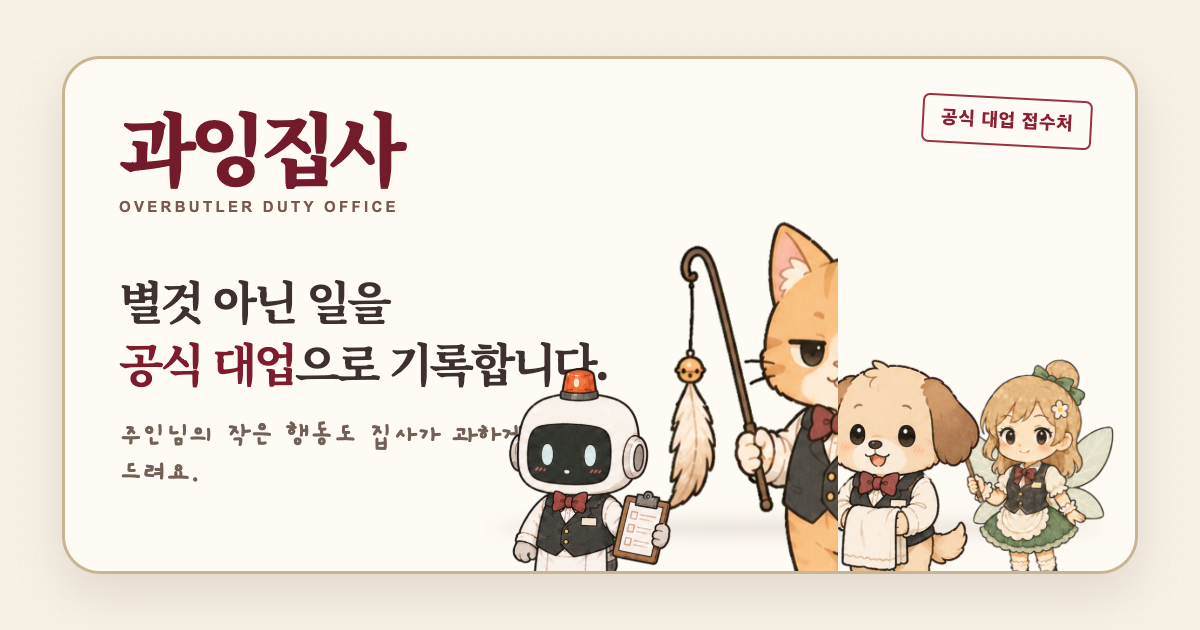
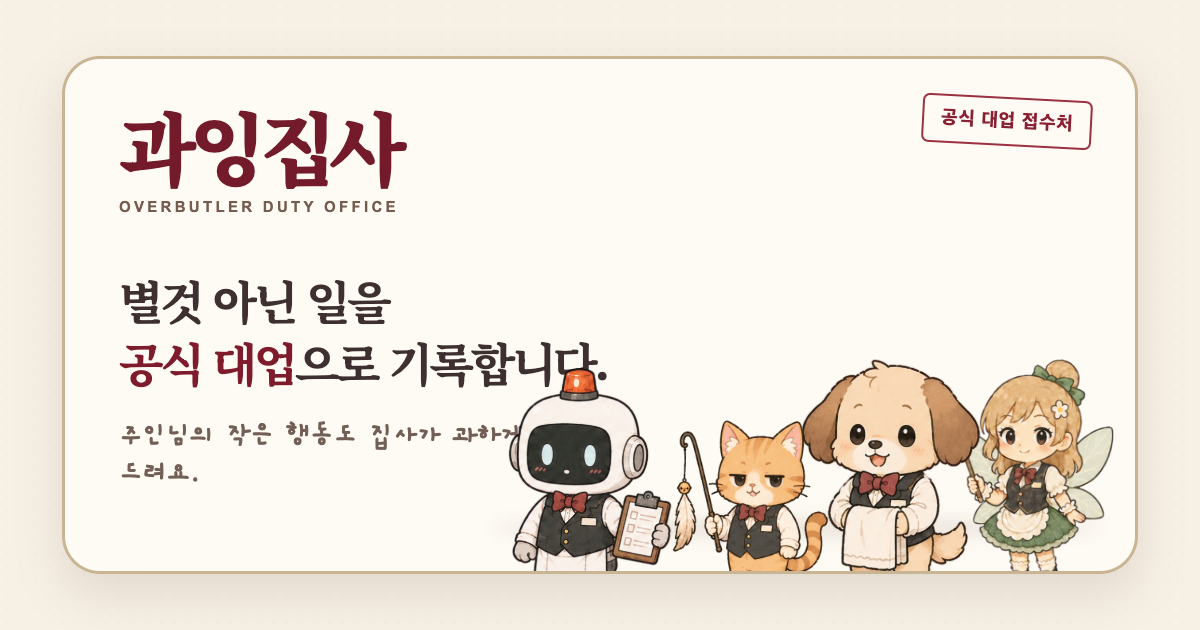
fix: clean cat poses and prepare runtime packaging

Changed region(s): [[0.555, 0.3317, 0.7092, 0.9048]]

diff --git a/index.html b/index.html
@@ -341,7 +341,7 @@
         <button class="recruit-note" id="recruit-note" type="button"><strong id="recruit-title">✉ 신규 지원 조건 확인</strong><span id="recruit-description">주인님의 명성이 업계에 퍼지고 있습니다.</span></button>
         <button class="manager-change-button" id="manager-change-button" type="button">담당 변경 및 인수인계 <span>›</span></button>
         <footer class="app-information" aria-label="앱 정보">
-          <div><strong>과잉집사</strong><span>버전 <b id="app-version">2.16.0</b> · 기기 안에 기록 저장</span></div>
+          <div><strong>과잉집사</strong><span>버전 <b id="app-version">2.17.0</b> · 기기 안에 기록 저장</span></div>
           <nav aria-label="정책 문서"><a href="privacy.html" target="_blank" rel="noopener" data-analytics-event="privacy_open">개인정보 처리방침</a><a href="terms.html" target="_blank" rel="noopener" data-analytics-event="terms_open">이용약관</a></nav>
         </footer>
       </section>

diff --git a/docs/RELEASE.md b/docs/RELEASE.md
@@ -22,3 +22,37 @@
 - Complete current Apps in Toss, Apple App Store, and Google Play policy checklists.
 - Run `quality-handoff`, then `release-check` on the exact submission build.
 
+## Platform packaging status
+
+### Public web
+
+- The release-candidate web flow, install manifest, icons, legal pages, and mobile safe areas are present.
+- Keep `butlermaker_v1` as the compatibility contract. Do not reset it during packaging.
+- The final domain, operator name, and support contact are still submission-time inputs.
+
+### Apps in Toss
+
+- Use the official `@apps-in-toss/web-framework` adapter and generate `granite.config.ts` plus a `.ait` bundle.
+- `appName`, display name, and icon must exactly match the Apps in Toss console entry. Do not invent these values in source before the console app is fixed.
+- Keep the main web viewport accessible. Apply the Apps in Toss pinch-zoom setting only in the platform-specific shell.
+- Test the exact bundle in Toss Sandbox, including native back events and all overlays.
+- QR-test `localStorage` and production `localStorage` use different origins and do not share data. Production updates on the same origin do preserve data.
+- The extracted bundle must stay below the official 100 MB uncompressed limit. Never package the repository root: it contains source sheets, mockups, and reference assets not used at runtime.
+- Run `node scripts/build-runtime-bundle.mjs` to create the shared runtime-only source under `dist/runtime/`; use that directory as the input for platform adapters.
+
+### App Store and Google Play
+
+- A website URL or thin remote WebView is not the submission artifact. Build a locally bundled native container after the web release-candidate is approved.
+- Use the same local web application and data contract, then add only platform-required native lifecycle, file sharing, haptics, and navigation handling.
+- Apple review requires an experience beyond a repackaged website; verify app-like value and on-device completeness before submission.
+- Google Play requires stable, meaningful functionality, policy declarations, a live privacy URL, content rating, and the current target API level.
+- As of 2026-08-31, new Google Play submissions must target Android 16 / API level 36 or higher.
+
+## Current official references
+
+- Apps in Toss existing-web integration: <https://developers-apps-in-toss.toss.im/tutorials/webview.html>
+- Apps in Toss storage behavior: <https://developers-apps-in-toss.toss.im/bedrock/reference/framework/%EC%A0%80%EC%9E%A5%EC%86%8C/Storage.html>
+- Apps in Toss WebView properties: <https://developers-apps-in-toss.toss.im/bedrock/reference/framework/%EC%86%8D%EC%84%B1%20%EC%A0%9C%EC%96%B4/webview-props.html>
+- Apple App Review Guidelines, especially 2.1 and 4.2: <https://developer.apple.com/app-store/review/guidelines/>
+- Google Play functionality policy: <https://support.google.com/googleplay/android-developer/answer/9898783>
+- Google Play target API requirement: <https://developer.android.com/google/play/requirements/target-sdk>

diff --git a/docs/DEVELOPMENT-ROADMAP.md b/docs/DEVELOPMENT-ROADMAP.md
@@ -30,7 +30,12 @@ This checklist preserves the agreed product order. Complete each batch with mobi
 - [x] Audit broken assets, back navigation, repeated taps, storage failures, share/save failures, and accessibility
 - [x] Prepare legal pages, app icon/splash/share art, versioning, platform safe areas, and analytics events
 - [x] Validate the public web build with the complete mobile relationship flow
-- [ ] Validate Apps in Toss, then App Store/Play Store packaging against current platform requirements
+- [x] Audit Apps in Toss, App Store, and Play Store packaging against current official requirements
+- [ ] Confirm the Apps in Toss console `appName` and icon URL, then add the isolated SDK adapter
+- [ ] Build a runtime-only `.ait` bundle under 100 MB and validate it in Toss Sandbox
+- [ ] Create locally bundled iOS/Android containers and validate native navigation, sharing, lifecycle, and signing
+- [ ] Confirm the final domain, operator/support details, store metadata, and submission accounts
+- [ ] Run `quality-handoff` and `release-check` on each exact submission artifact
 
 ## Deferred until proven necessary
 

diff --git a/docs/DECISIONS.md b/docs/DECISIONS.md
@@ -61,6 +61,10 @@ Use the format:
   **Decision**: Persist each diary reflection when it is written and backfill legacy reflections once without changing the `butlermaker_v1` key.
   **Reason**: A past diary must retain the original butler, owner name, and wording even after a handover or later dialogue updates.
 
+- **Date**: 2026-08-09
+  **Decision**: Package Apps in Toss through an isolated official SDK adapter, then package iOS and Android from the approved local web build instead of wrapping a remote URL.
+  **Reason**: Platform-specific configuration must not destabilize the public web app, the Toss bundle has a strict size limit, and native stores require a complete app-like submission rather than a thin website wrapper.
+
 ## Future additions
 
 Append future entries with the same three-field format so decisions remain searchable and easy to audit.

diff --git a/docs/ASSETS.md b/docs/ASSETS.md
@@ -10,6 +10,8 @@ This project stores runtime assets under `design/character-assets/` and does not
 - Use meaningful, lower-case, kebab-case names.
 - Do not introduce `final`, `new`, `real-final` style version naming.
 - Preserve existing directory structure unless there is a concrete need.
+- Every extracted UI pose must include the complete character with transparent padding on all sides and no fragments from neighboring poses.
+- Platform bundles include runtime pose/reference files only. Source sheets, concept boards, and mockups stay in the repository but are excluded from submission artifacts.
 
 ## Runtime-relevant structure (current)
 
